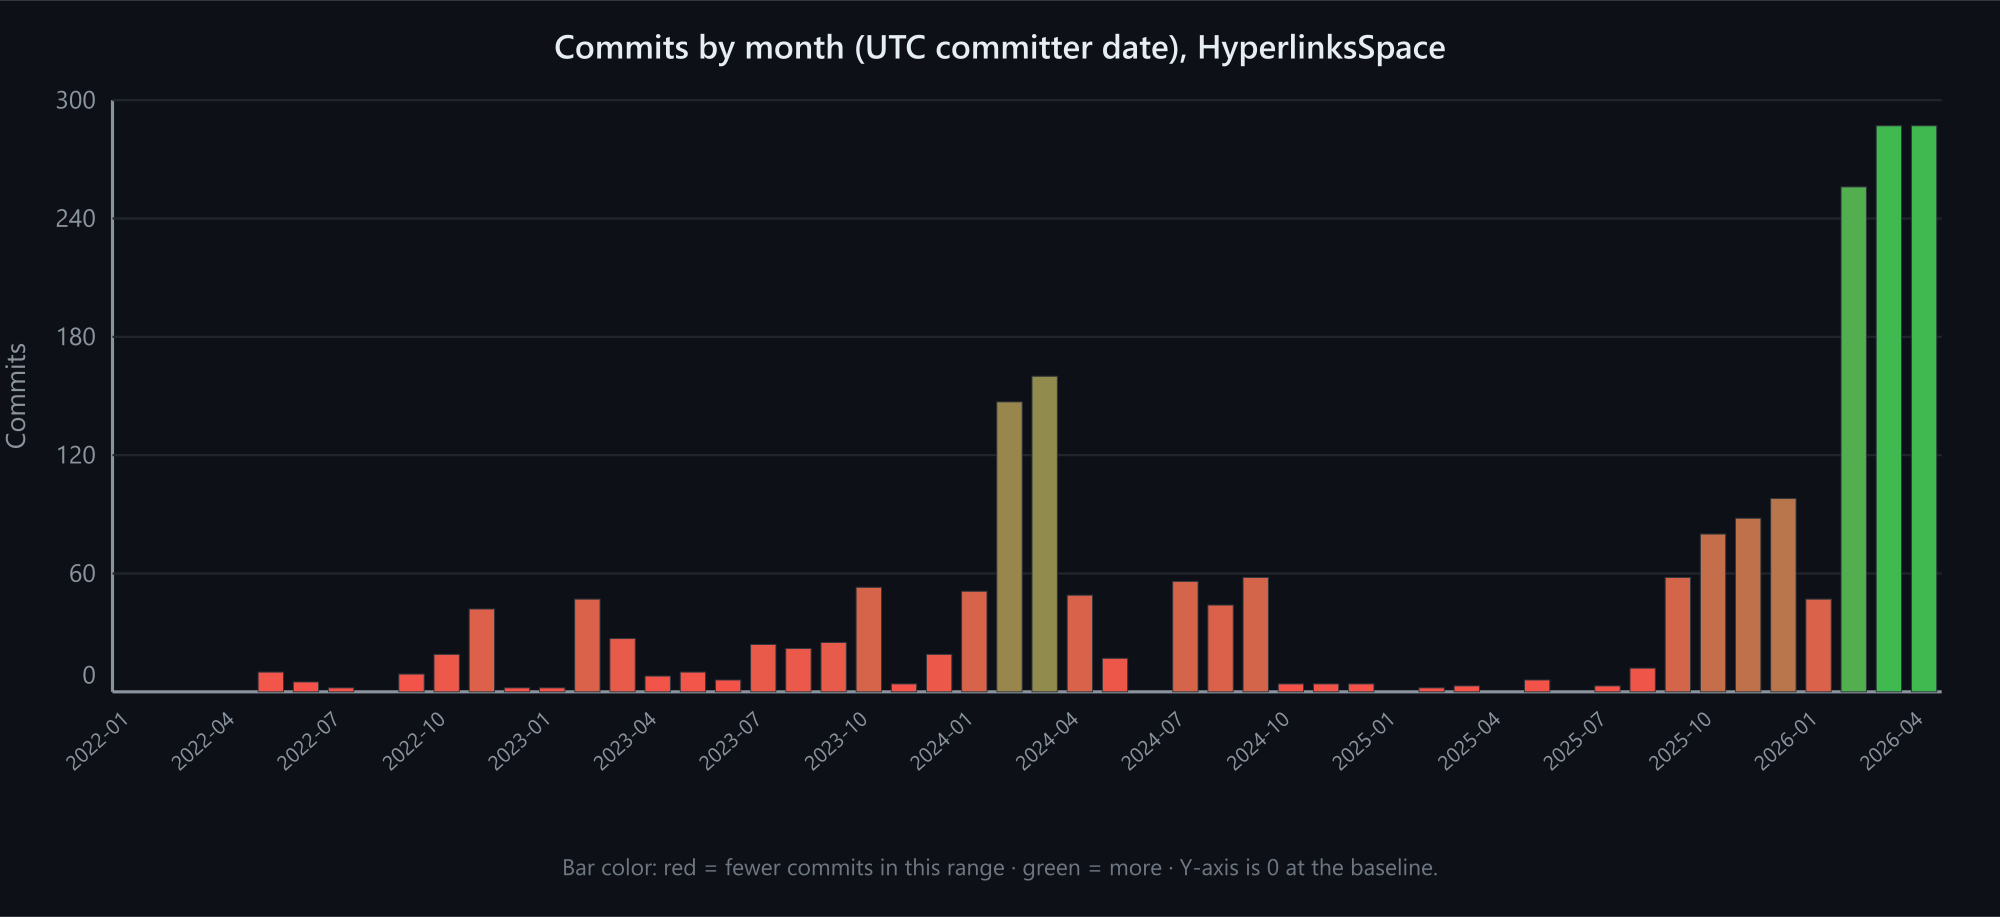
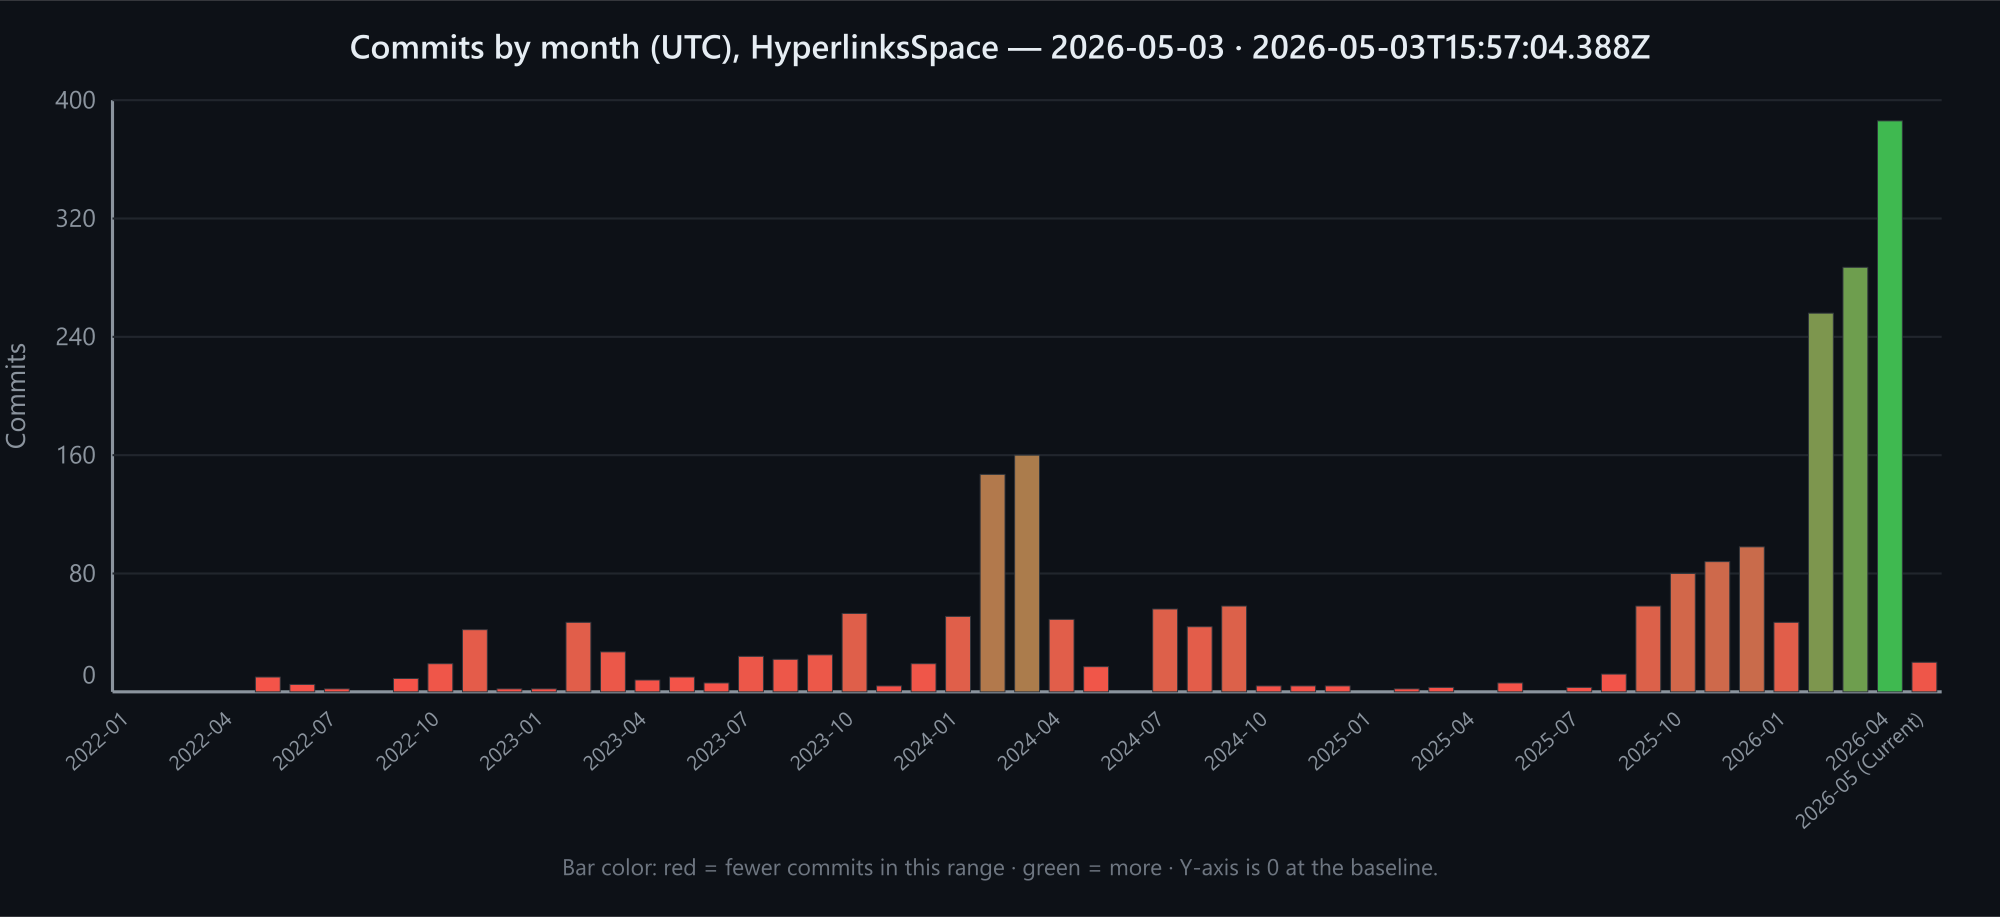
Update production report with new commit totals, contributor rankings, and improved chart labels; adjust environment variable handling in scripts for better reliability.

diff --git a/scripts/contributors.ts b/scripts/contributors.ts
@@ -35,12 +35,14 @@ function stripWrappingQuotes(value: string): string {
   return value;
 }
 
+const DOTENV_OVERRIDE_KEYS = new Set(["GITHUB_TOKEN"]);
+
 async function loadDotEnv(): Promise<void> {
   const envPath = path.resolve(process.cwd(), ".env");
 
   let raw = "";
   try {
-    raw = await fs.readFile(envPath, "utf8");
+    raw = (await fs.readFile(envPath, "utf8")).replace(/^\uFEFF/u, "");
   } catch {
     return;
   }
@@ -56,7 +58,8 @@ async function loadDotEnv(): Promise<void> {
     const value = stripWrappingQuotes(line.slice(eqIndex + 1).trim());
 
     if (!key) continue;
-    if (!Object.prototype.hasOwnProperty.call(process.env, key)) {
+    const override = DOTENV_OVERRIDE_KEYS.has(key) && value.length > 0;
+    if (override || !Object.prototype.hasOwnProperty.call(process.env, key)) {
       process.env[key] = value;
     }
   }

diff --git a/ProductionReport.md b/ProductionReport.md
@@ -1,6 +1,6 @@
 # HyperlinksSpace — production & contributors (GitHub API)
 
-Generated at: 2026-04-18T00:36:38.582Z
+Generated at: 2026-05-03T15:59:54.564Z
 
 ## Production dynamics
 
@@ -9,17 +9,19 @@ Commit totals use the [GitHub Commit Search API](https://docs.github.com/en/rest
 | Metric | Value |
 | --- | ---: |
 | Organization | `HyperlinksSpace` |
-| **Total commits (org search)** | **2157** |
-| Sum of monthly commit counts (2022-01–2026-04) | 2157 |
-| Contributor commit sum, non-fork non-archived repos (81 repos) | 2129 |
+| **Total commits (org search)** | **2276** |
+| Sum of monthly commit counts (2022-01–2026-05 (Current)) | 2276 |
+| Contributor commit sum, non-fork non-archived repos (81 repos) | 2248 |
 
 ### Chart
 
-Vector: [`images/commits-by-month.svg`](images/commits-by-month.svg) · Raster: [`images/commits-by-month.png`](images/commits-by-month.png). **Y-axis** starts at **0**. **Bar colors** run red → green by commit volume within the chart range. On **GitHub**, the chart displays via the absolute URL below (same pattern as other org assets). For local preview, use the committed file at [`images/commits-by-month.png`](images/commits-by-month.png).
+Vector: [`images/commits-by-month.svg`](images/commits-by-month.svg) · Raster: [`images/commits-by-month.png`](images/commits-by-month.png). **Y-axis** starts at **0**. **Bar colors** run red → green by commit volume within the chart range. On **GitHub**, the chart image below uses an absolute `raw` URL so it renders like other org assets. For local preview, open [`images/commits-by-month.png`](images/commits-by-month.png).
 
 ![Commits by month — production chart](https://github.com/HyperlinksSpace/.github/raw/main/images/commits-by-month.png)
 
-### Monthly breakdown
+### Monthly breakdown (UTC) — measurement UTC date **2026-05-03** · full timestamp `2026-05-03T15:57:04.388Z`
+
+**(Current)** on the last row means the UTC calendar month was still in progress at measurement time (counts include only commits through that UTC date, same as the chart).
 
 `*` = that month has more than **1000** commits in GitHub search; only the first 1000 results are available, so **contributor count may be understated** (distinct authors in the sample).
 
@@ -34,30 +36,30 @@ Vector: [`images/commits-by-month.svg`](images/commits-by-month.svg) · Raster: 
 | 2022-07 | 2 | 1 | `····························` |
 | 2022-08 | 0 | 0 | `····························` |
 | 2022-09 | 9 | 1 | `█···························` |
-| 2022-10 | 19 | 1 | `██··························` |
-| 2022-11 | 42 | 1 | `████························` |
+| 2022-10 | 19 | 1 | `█···························` |
+| 2022-11 | 42 | 1 | `███·························` |
 | 2022-12 | 2 | 1 | `····························` |
 | 2023-01 | 2 | 1 | `····························` |
-| 2023-02 | 47 | 2 | `█████·······················` |
-| 2023-03 | 27 | 2 | `███·························` |
+| 2023-02 | 47 | 2 | `███·························` |
+| 2023-03 | 27 | 2 | `██··························` |
 | 2023-04 | 8 | 1 | `█···························` |
 | 2023-05 | 10 | 2 | `█···························` |
-| 2023-06 | 6 | 2 | `█···························` |
+| 2023-06 | 6 | 2 | `····························` |
 | 2023-07 | 24 | 1 | `██··························` |
 | 2023-08 | 22 | 3 | `██··························` |
 | 2023-09 | 25 | 5 | `██··························` |
-| 2023-10 | 53 | 4 | `█████·······················` |
+| 2023-10 | 53 | 4 | `████························` |
 | 2023-11 | 4 | 2 | `····························` |
-| 2023-12 | 19 | 3 | `██··························` |
-| 2024-01 | 51 | 4 | `█████·······················` |
-| 2024-02 | 147 | 7 | `██████████████··············` |
-| 2024-03 | 160 | 6 | `████████████████············` |
-| 2024-04 | 49 | 4 | `█████·······················` |
-| 2024-05 | 17 | 3 | `██··························` |
+| 2023-12 | 19 | 3 | `█···························` |
+| 2024-01 | 51 | 4 | `████························` |
+| 2024-02 | 147 | 7 | `███████████·················` |
+| 2024-03 | 160 | 6 | `████████████················` |
+| 2024-04 | 49 | 4 | `████························` |
+| 2024-05 | 17 | 3 | `█···························` |
 | 2024-06 | 0 | 0 | `····························` |
-| 2024-07 | 56 | 3 | `█████·······················` |
-| 2024-08 | 44 | 1 | `████························` |
-| 2024-09 | 58 | 2 | `██████······················` |
+| 2024-07 | 56 | 3 | `████························` |
+| 2024-08 | 44 | 1 | `███·························` |
+| 2024-09 | 58 | 2 | `████························` |
 | 2024-10 | 4 | 1 | `····························` |
 | 2024-11 | 4 | 1 | `····························` |
 | 2024-12 | 4 | 2 | `····························` |
@@ -65,18 +67,19 @@ Vector: [`images/commits-by-month.svg`](images/commits-by-month.svg) · Raster: 
 | 2025-02 | 2 | 1 | `····························` |
 | 2025-03 | 3 | 1 | `····························` |
 | 2025-04 | 0 | 0 | `····························` |
-| 2025-05 | 6 | 2 | `█···························` |
+| 2025-05 | 6 | 2 | `····························` |
 | 2025-06 | 0 | 0 | `····························` |
 | 2025-07 | 3 | 1 | `····························` |
 | 2025-08 | 12 | 1 | `█···························` |
-| 2025-09 | 58 | 1 | `██████······················` |
-| 2025-10 | 80 | 2 | `████████····················` |
-| 2025-11 | 88 | 2 | `█████████···················` |
-| 2025-12 | 98 | 1 | `██████████··················` |
-| 2026-01 | 47 | 1 | `█████·······················` |
-| 2026-02 | 256 | 2 | `█████████████████████████···` |
-| 2026-03 | 287 | 2 | `████████████████████████████` |
-| 2026-04 | 287 | 1 | `████████████████████████████` |
+| 2025-09 | 58 | 1 | `████························` |
+| 2025-10 | 80 | 2 | `██████······················` |
+| 2025-11 | 88 | 2 | `██████······················` |
+| 2025-12 | 98 | 1 | `███████·····················` |
+| 2026-01 | 47 | 1 | `███·························` |
+| 2026-02 | 256 | 2 | `███████████████████·········` |
+| 2026-03 | 287 | 2 | `█████████████████████·······` |
+| 2026-04 | 386 | 1 | `████████████████████████████` |
+| 2026-05 (Current) | 20 | 1 | `█···························` |
 
 ## Contributors
 
@@ -88,7 +91,7 @@ Repositories scanned: **81** · Unique contributors: **22**
 
 | Rank | Contributor | Total commits | Profile |
 | ---: | --- | ---: | --- |
-| 1 | staindart | 1513 | [https://github.com/staindart](https://github.com/staindart) |
+| 1 | anriltine | 1632 | [https://github.com/anriltine](https://github.com/anriltine) |
 | 2 | justdmitry | 129 | [https://github.com/justdmitry](https://github.com/justdmitry) |
 | 3 | Dhereal1 | 102 | [https://github.com/Dhereal1](https://github.com/Dhereal1) |
 | 4 | alerdenisov | 76 | [https://github.com/alerdenisov](https://github.com/alerdenisov) |
@@ -113,19 +116,20 @@ Repositories scanned: **81** · Unique contributors: **22**
 
 ### Per-contributor repository breakdown
 
-#### 1. [staindart](https://github.com/staindart)
-Total commits: **1513**
+#### 1. [anriltine](https://github.com/anriltine)
+Total commits: **1632**
 
-- HyperlinksSpaceProgram: 828
+- HyperlinksSpaceProgram: 878
 - whatswap: 119
+- TinyModel: 107
 - a-dao: 98
-- TinyModel: 48
 - payments_counter: 42
 - HyperlinksSpaceWebsite: 30
 - ton-editable-minter: 27
 - FastTonTradeBot: 26
 - ton-dictionaries-template: 23
 - BlockchainProgram: 21
+- .github: 20
 - a-tdp-template: 19
 - FUNK: 19
 - x2lottery: 14
@@ -134,7 +138,6 @@ Total commits: **1513**
 - HyperlinksSpaceProgramLanding: 13
 - ton-nft-dapp: 12
 - a-careers-smc: 10
-- .github: 10
 - TON_add_number_contract: 9
 - freelance-exchange-tdb: 9
 - desde: 9
